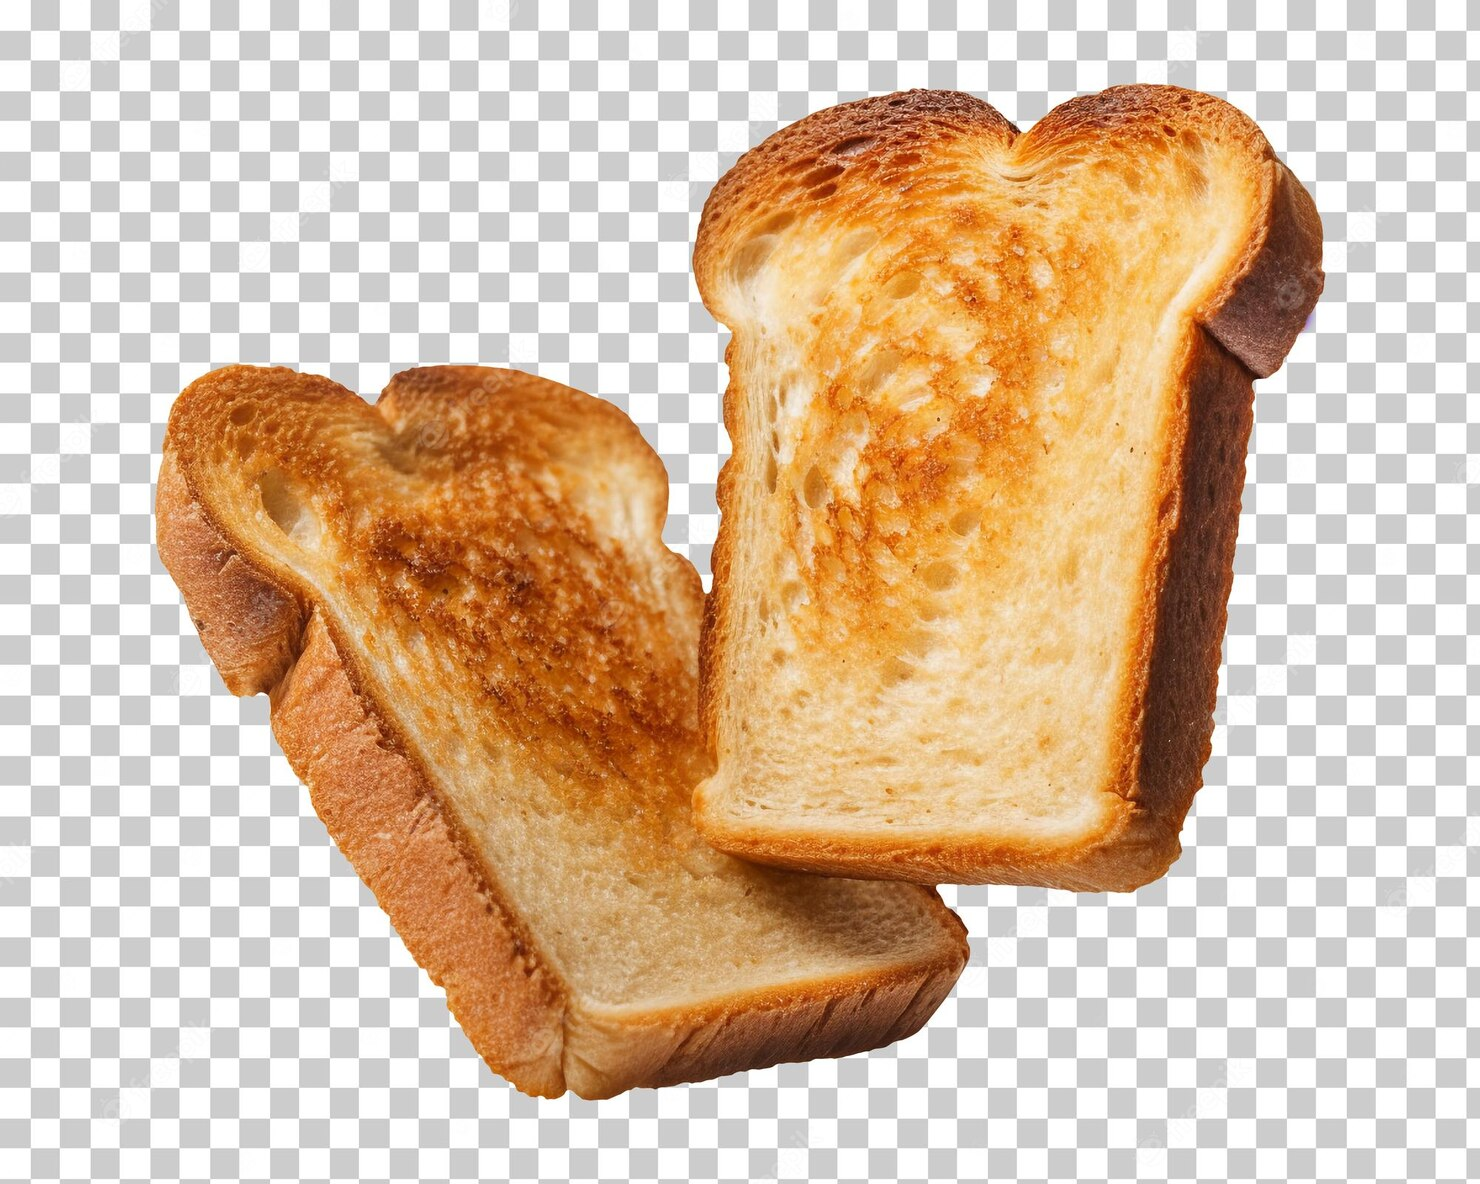
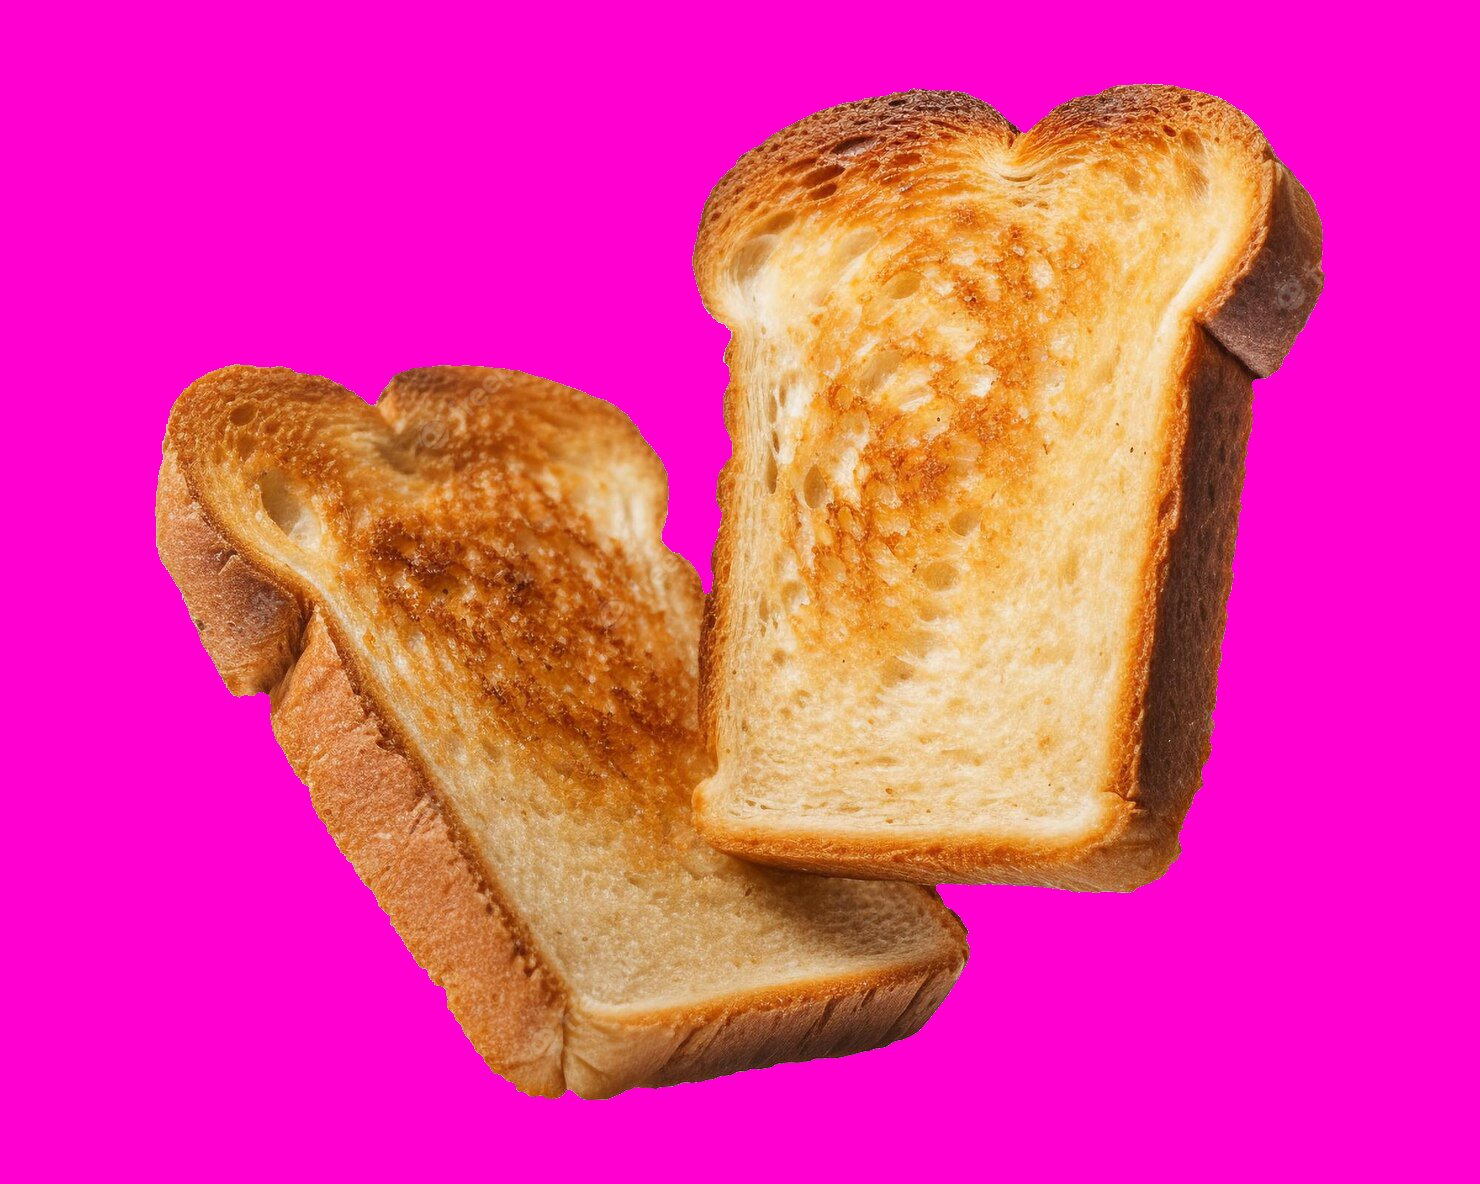
more home page changes

diff --git a/src/index.css b/src/index.css
@@ -20,7 +20,12 @@ code {
   height: 100%;
   position: relative;
   z-index: -1;
-  background-image: url(./Assets/home-bkgd.jpg);
+  background-image: linear-gradient(
+      to left,
+      rgb(255, 209, 135),
+      rgb(255, 136, 0, 0.1)
+    ),
+    url(./Assets/home-bkgd.jpg);
   background-size: cover;
   background-repeat: no-repeat;
   background-position: top;
@@ -32,25 +37,27 @@ code {
   text-align: left;
 }
 .heading {
+  color: #ffe9c9;
   font-size: 2.4em !important;
   padding-left: 50px !important;
 }
 
 .heading-name {
+  color: #ffe9c9;
   font-size: 2.5em !important;
   padding-left: 45px !important;
 }
 
 .main-name {
-  color: #ff7000;
+  color: #f9c87c;
 }
 
 .Typewriter__wrapper {
   font-size: 2.2em !important;
-  color: #ff7000 !important;
+  color: #f9c87c !important;
   font-weight: 600 !important;
 }
 .Typewriter__cursor {
   font-size: 2.4em !important;
-  color: #ff7000 !important;
+  color: #f9c87c !important;
 }

diff --git a/src/components/home/Home.js b/src/components/home/Home.js
@@ -2,7 +2,7 @@ import React from "react";
 import { Container, Row, Col } from "react-bootstrap";
 import Particle from "../Particle";
 import Type from "./Type";
-import homeLogo from "../../Assets/toast.jpg";
+import homeLogo from "../../Assets/transparent-toast.png";
 
 function Home() {
   return (
